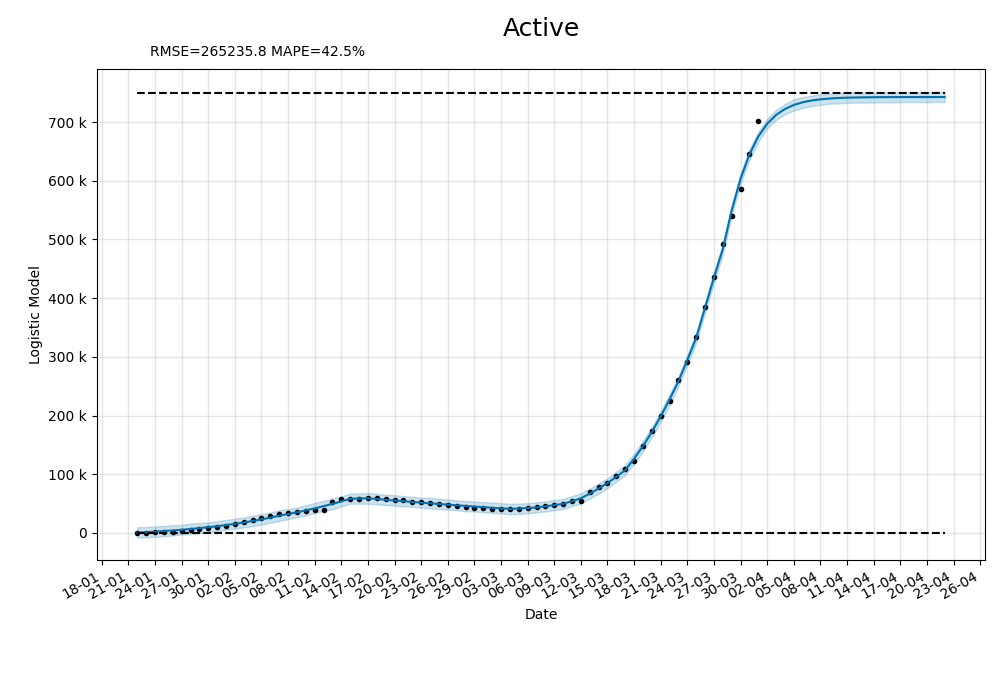
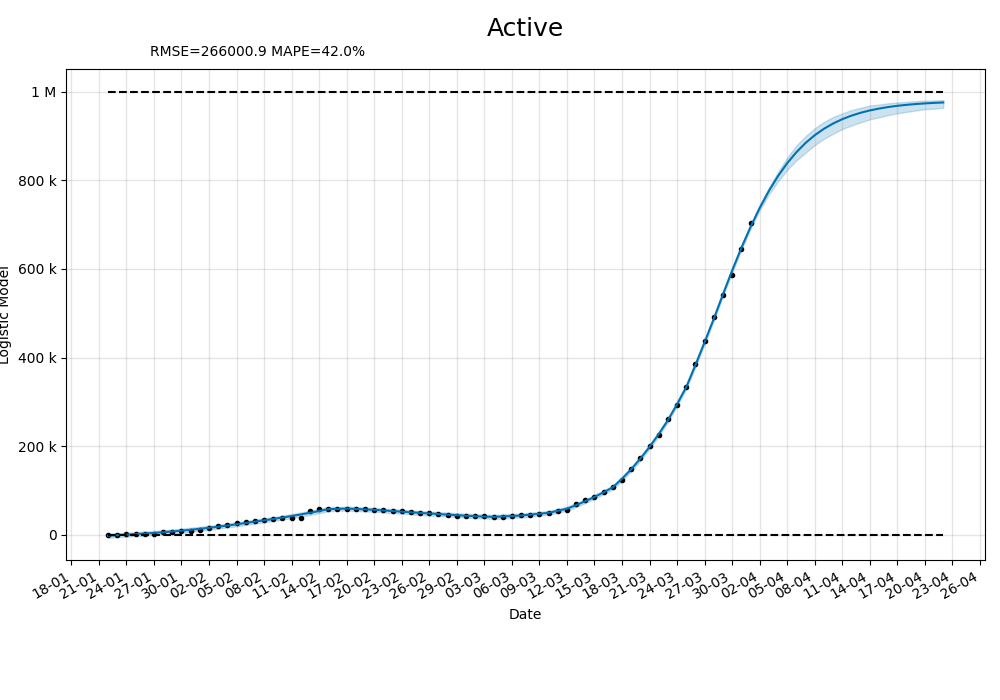
update

diff --git a/prophet_pred.py b/prophet_pred.py
@@ -64,21 +64,21 @@ def plotter(train = None, title = "", ylabel = "", fn = "test", plot = True, add
     plt.close('all')
 #
 plot = True
-confirmed_logistic = True
-confirmed_linear = True
+confirmed_logistic = False
+confirmed_linear = False
 deaths_logistic = False
 deaths_linear = False
-active_logistic = False
+active_logistic = True
 active_linear = False
-recovered_logistic = False
+recovered_logistic = True
 recovered_linear = False
 mortality_linear = False
 
 #case, floor, cap
 logparams = op.LogParams()
-logparams += op.LogParam("Confirmed", 0, 0.5e6) #1.5e6
-logparams += op.LogParam("Deaths", 0, 5e3)#100e3
-logparams += op.LogParam("Active", 0, 750e3)
+logparams += op.LogParam("Confirmed", 0, 1.5e6) #1.5e6
+logparams += op.LogParam("Deaths", 0, 100e3)#100e3
+logparams += op.LogParam("Active", 0, 1e6)
 logparams += op.LogParam("Recovered", 0, 300e3)
 logparams += op.LogParam("Mortality", 0, 100e3)
 print(logparams)
@@ -92,9 +92,9 @@ q1 = xq.Query("Subperiod", "Confirmed > 0 and Date > '2020-02-15' and Date < '20
 q2 = xq.Query("Subperiod", "Confirmed > 0 and Date > '2020-02-20' and Date < '2021-01-01'")
 q3 = xq.Query("Germany", "Confirmed > 0 and Country == 'Germany'")
 
-tag = "Germany"
+tag = ""
 #data loader
-dloader = xp.DataLoader(query = q3, logistic_params = logparams)
+dloader = xp.DataLoader(query = q0, logistic_params = logparams)
 
 #forecasting periods
 periods = 21
